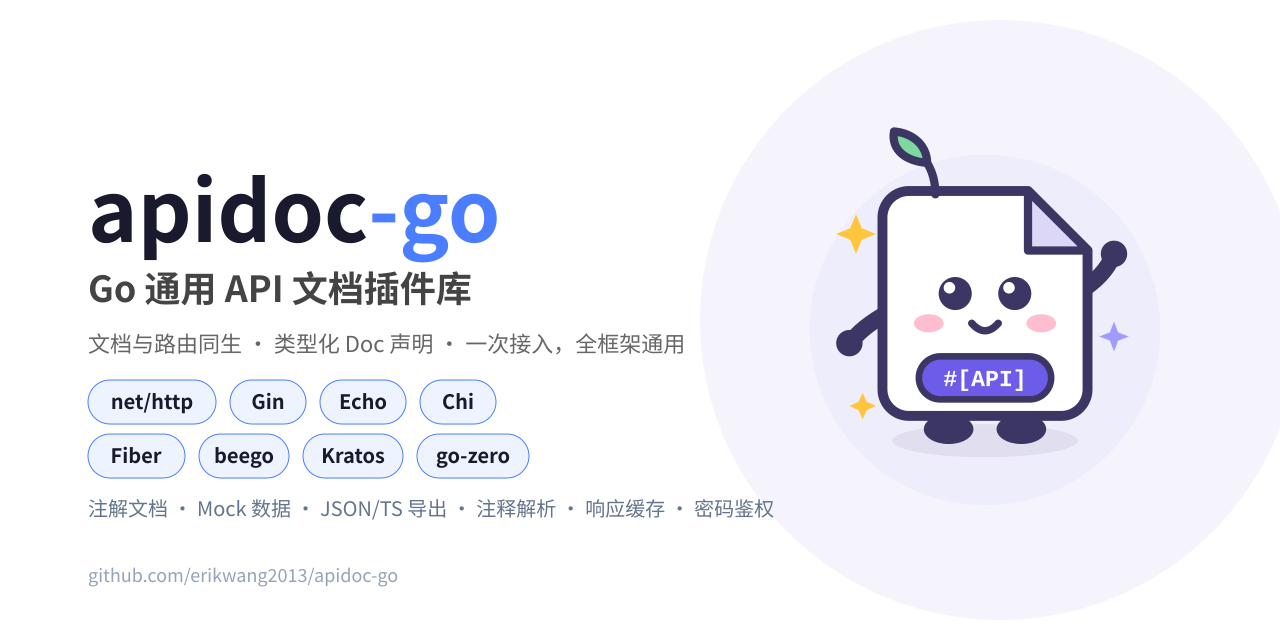
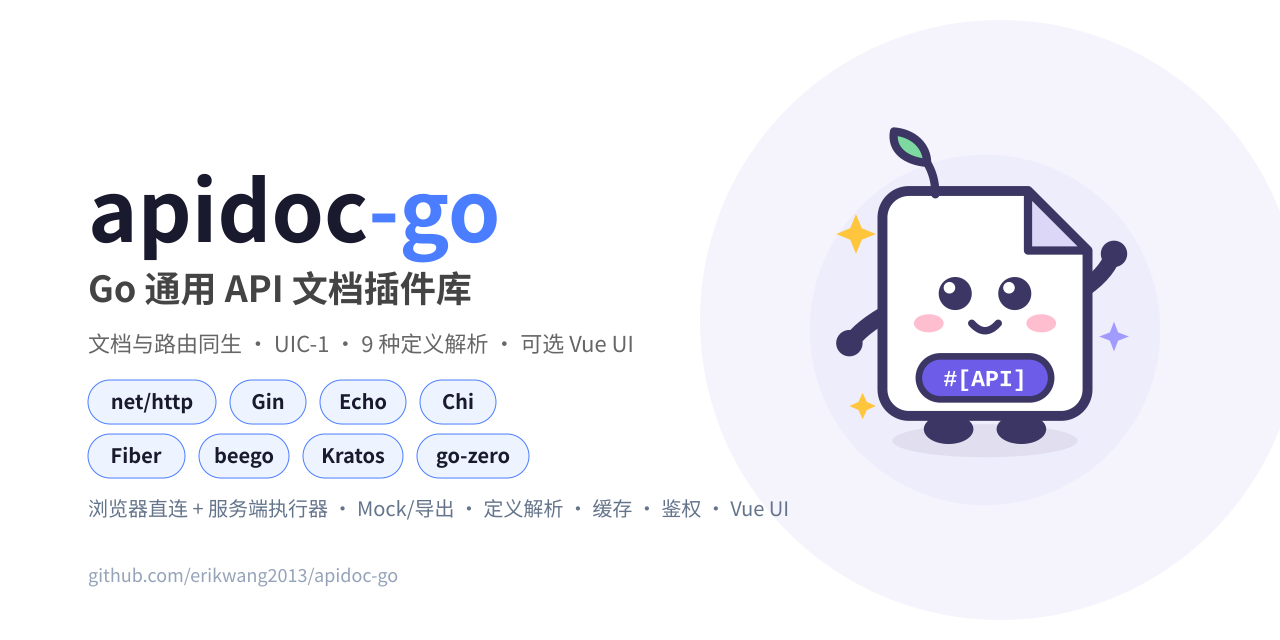
docs: release v1.1.0 with UIC-1, executors and definitions
- Add VERSION=1.1.0; release workflow reads it and only creates
  v$VERSION when absent instead of patch-bumping.
- README: document UIC-1 API, build-tag protocol executors, nine-format
  definition parsing, optional UIPath Vue UI, capabilities and security.
- CHANGELOG: add the 1.1.0 entry.
- Refresh architecture/features/lifecycle/social SVGs and regenerate
  docs/social-preview.png at 1280x640.

Changed region(s): [[0.2188, 0.5, 0.5312, 0.5625], [0.0625, 0.7812, 0.625, 0.8125]]

diff --git a/README.md b/README.md
@@ -2,31 +2,35 @@
 
 # apidoc-go — Go 通用 API 文档插件
 
+[![Release](https://img.shields.io/github/v/release/erikwang2013/apidoc-go)](https://github.com/erikwang2013/apidoc-go/releases)
+
 [English](docs/i18n/en/README.md) · [한국어](docs/i18n/ko/README.md) · [Русский](docs/i18n/ru/README.md) · [Deutsch](docs/i18n/de/README.md) · [Français](docs/i18n/fr/README.md) · [Español](docs/i18n/es/README.md) · [Português](docs/i18n/pt/README.md) · [हिन्दी](docs/i18n/hi/README.md) · [العربية](docs/i18n/ar/README.md) · [বাংলা](docs/i18n/bn/README.md) · [Bahasa Indonesia](docs/i18n/id/README.md) · [日本語](docs/i18n/ja/README.md)
 
 ## 项目介绍
 
-**当前版本：以 [Releases](https://github.com/erikwang2013/apidoc-go/releases) 为准**
+**当前版本：v1.1.0**（以 [Releases](https://github.com/erikwang2013/apidoc-go/releases) 为准）
 
-**apidoc-go** 是一个通用 Go API 文档插件库：接口文档以**类型化结构体**随路由注册时一同声明，文档与路由同生；以 JSON API 暴露文档，供外部 UI 渲染与发起测试请求，并内置密码鉴权、多应用/多版本管理、Mock 数据与 JSON / TypeScript 导出能力、注释解析、接口缓存与参数自动补全。一次接入，全框架通用，无需改造现有项目。
+**apidoc-go** 是一个通用 Go API 文档插件库：接口文档以**类型化结构体**随路由注册时一同声明，文档与路由同生；同时提供旧版 `/api/*` 与 UIC-1 `/ui/v1/*` 两套 JSON API，可用任意外部 UI 渲染调试，也可通过 `Config.UIPath` 在同一进程提供打包后的 Vue UI。库内置密码鉴权、多应用/多版本管理、Mock 数据、JSON / TypeScript 导出、注释与九种协议定义解析、接口缓存与参数自动补全；服务端协议执行器按构建标签按需编译，覆盖 HTTP、RPC、套接字、消息、IoT、工业与媒体协议族。一次接入，全框架通用，无需改造现有项目。
 
 ## 项目功能
 
 | # | 功能 | 说明 |
 |---|------|------|
 | 1 | 文档自动生成 | 类型化 Doc 声明，随路由注册，一处声明，文档与路由同生 |
-| 2 | 文档 API | `/api/menus`、`/api/protocols`、`/api/detail`、`/api/export`，供外部 UI 渲染文档与发起测试请求 |
+| 2 | 文档 API | 旧版 `/api/*`（menus / protocols / detail / export）与 UIC-1 `/ui/v1/*`（文档、调试、分享、生成器、导出），供外部 UI 或内置 Vue UI 使用 |
 | 3 | Mock 数据 | 字段级 Mock 示例，接口联调快人一步 |
 | 4 | 多应用 / 多版本 | App / Version 树形管理，一套插件覆盖全项目文档 |
 | 5 | 密码鉴权 | 全局密码 + 应用级密码，HMAC Token · 恒时比较 |
 | 6 | Markdown 文档 | goldmark 安全渲染，原生 HTML 自动剥离 |
 | 7 | 多框架适配 | net/http · Gin · Echo · Chi · Fiber · beego · Kratos · go-zero，一次接入全框架通用 |
 | 8 | JSON / TypeScript 导出 | 接口类型一键导出，前后端联调更顺畅 |
-| 9 | 安全防护 | 密码鉴权 · CORS 白名单限定 · 防 XSS · 防路径穿越 |
-| 10 | 注释自动解析 | go/ast 从注释自动生成文档，`@apidoc` 标记即注册 |
+| 9 | 安全防护 | 密码鉴权 · CORS 白名单 · 防 XSS / 路径穿越 · 服务端调试 SSRF 守卫 · 会话与字节限额 |
+| 10 | 注解与定义解析 | go/ast 解析 `@apidoc` / `@protocol` / `@definition`；内置 OpenAPI、AsyncAPI、GraphQL、proto、WSDL、EDMX、JSON Schema、JSON-RPC、XML-RPC 九种定义格式 |
 | 11 | 接口缓存 | 版本化响应缓存 + ETag/304，文档接口毫秒级返回 |
 | 12 | 参数自动补全 | reflect 从 handler 签名自动推断请求参数 |
-| 13 | 任意协议注解 | `@protocol` 标注协议；detail 返回 protocol/method/url/params/responses/mock，外部 UI 负责面板与测试请求 |
+| 13 | 任意协议注解 | `@protocol` 标注协议；detail 返回 protocol/method/url/params/responses/mock 与解析后的协议定义 |
+| 14 | 内置 Vue UI（可选） | `Config.UIPath` 指向 UIC-1 打包产物即可同进程提供 Vue UI；留空时回退纯 JSON API |
+| 15 | 服务端协议执行器 | 7 大协议族按构建标签编译；默认关闭、未编译即 fail closed，`apidoc_debug_all` 一键全开 |
 
 ## 架构总览
 
@@ -41,17 +45,27 @@
 ```
 apidoc-go/
 ├── apidoc.go            # 核心入口：New / Register / Mount / Handler
+├── VERSION              # 项目版本（v1.1.0），发布工作流据此建 tag
 ├── doc.go               # Route / Doc / Param / Response 类型
 ├── model/               # 数据模型
 │   ├── model.go         #   Project / App / Version / Controller / Action
+│   ├── definition.go    #   @definition 外部协议定义
 │   ├── protocol.go      #   URL scheme → protocol
 │   └── protocols.go     #   协议注册表 / 别名 / 默认端口
 ├── store/               # 存储与去重
 │   └── store.go         #   (app, version, method, url) 去重，后者覆盖
 ├── auth/                # 鉴权
 │   └── auth.go          #   密码校验 · HMAC Token 签发与验证
-├── server/              # JSON API
-│   └── server.go
+├── server/              # HTTP API
+│   ├── server.go        #   旧版 /api 路由 · 鉴权 / CORS / 缓存
+│   ├── ui.go            #   UIPath 静态 Vue UI（SPA 兜底 · 路径限定）
+│   └── uiapi/           #   UIC-1 /ui/v1 API
+│       ├── uiapi.go     #     capabilities / config / menus / detail
+│       ├── read.go      #     文档读取 · 定义解析
+│       ├── debug.go     #     debugSend / debugStart / debugPoll / debugStop
+│       ├── manage.go    #     生成器 · 代码模板 · 分享 · 缓存
+│       ├── share.go
+│       └── debug/       #     服务端协议执行器（构建标签按协议族编译）
 ├── adapter/             # 框架适配层（类型化接口）
 │   ├── adapter.go
 │   ├── nethttp.go       #   net/http  ServeMux
@@ -60,7 +74,8 @@ apidoc-go/
 │   ├── chi.go           #   http.HandlerFunc
 │   └── fiber.go         #   fiber.Handler
 ├── parse/               # 注释自动解析
-│   └── parse.go         #   go/ast · @apidoc 注释标记
+│   ├── parse.go         #   go/ast · @apidoc / @protocol / @definition
+│   └── protocol/        #   九种协议定义解析
 ├── export/              # 导出
 │   └── export.go        #   TypeScript 接口定义
 ├── mock/                # Mock 数据
@@ -120,9 +135,29 @@ func main() {
 
 	s.Mount(adapter.NewNetHTTP(mux))
 	http.ListenAndServe(":8080", mux)
-	// 外部 UI 读取 http://localhost:8080/apidoc/api/menus 等文档 API
+	// 外部 UI 读取 /apidoc/api/menus 或 UIC-1 /apidoc/ui/v1/*；
+	// 配置 UIPath 后也可直接打开 http://localhost:8080/apidoc/
 }
 ```
+
+### 启用 UIC-1 内置 Vue UI 与服务端执行器
+
+```go
+s := apidoc.New(apidoc.Config{
+	Prefix: "/apidoc",
+	// 可选：apidoc-ui 的 npm run package:ui 产物（index.html / config.js / assets/）。
+	// 留空则只提供 JSON API，继续使用外部 UI。
+	UIPath: "/srv/myapp/dist/uic1-ui",
+	// 服务端代发默认关闭；开启后仍受 SSRF 白名单与限额约束。
+	Debug: apidoc.DebugConfig{EnableServerSide: true},
+})
+```
+
+执行器在构建期按协议族选择：`go build -tags apidoc_debug_all` 编译全部，
+或用 `apidoc_debug_http`、`apidoc_debug_sockets`、`apidoc_debug_rpc`、
+`apidoc_debug_grpc`、`apidoc_debug_http3`、`apidoc_debug_messaging`、
+`apidoc_debug_iot`、`apidoc_debug_industrial`、`apidoc_debug_media` 按需裁剪；
+未编译的协议调用一律 fail closed。
 
 ### 任意协议注解
 
@@ -148,9 +183,35 @@ IEC 60870-5-104、BACnet/IP、RTP、RTCP、TCP、UDP、Raw Socket、Unix Domain
 Socket）；完整 key、别名、scheme 与默认端口见 `GET /api/protocols`。二进制 body
 用 `@param ... type=binary`（或 `hex`/`base64`）+ `in=payload` 声明。
 
-协议本身不进入库：`/api/detail` 返回 `protocol`、`protocol_info`、`method`、`url`、
-`params`、`responses` 与 `mock`，由外部 UI 渲染调试面板并自行发起测试请求。库不
-启动任何协议服务，也不提供 `/api/debug/*` 执行端点。
+`/api/detail` 与 UIC-1 `/ui/v1/docDetail` 返回 `protocol`、`protocol_info`、`method`、
+`url`、`params`、`responses`、`mock` 及解析后的 `definitions`。调试有两种通道：
+浏览器直连（HTTP / WebSocket / SSE，始终可用）与服务端代发（`Debug` 开启 + 对应
+构建标签）。服务端协议族包括 HTTP（http / http2 / http3 / SOAP / GraphQL / JSON-RPC /
+XML-RPC / OData / MCP / A2A / Webhook）、RPC（gRPC / Thrift / Dubbo / Hessian /
+ISO 8583）、套接字（TCP / UDP / Raw / Unix）、消息（MQTT / STOMP / AMQP / Kafka /
+XMPP）、IoT（CoAP / LwM2M）、工业（Modbus / DNP3 / IEC 104 / BACnet / OPC UA）与
+媒体（RTSP / SIP / RTP / RTCP / RTMP）。默认构建不编译执行器；开启后目标先过 SSRF
+守卫（`AllowHosts` 白名单、默认拒绝私网/回环/链路本地/云元数据地址、DNS 解析后逐
+IP 校验并钉住连接），并受超时、单消息 1 MiB、响应 `MaxBytes` 与流会话上限约束。
+
+### 协议定义解析（@definition）
+
+用 `@definition` 引入外部协议定义（格式自动探测，也可用 `format=` 指定），解析结果
+随 detail 返回，供 UIC 渲染报文结构并生成调试表单：
+
+```go
+// @apidoc
+// @protocol http
+// @method POST
+// @url /api/v1/users
+// @definition file=specs/openapi.yaml operation=createUser
+// @definition file=specs/service.proto message=User
+```
+
+支持 OpenAPI、AsyncAPI、GraphQL SDL、proto、WSDL、EDMX (OData)、JSON Schema、
+JSON-RPC 与 XML-RPC 九种格式。`Config.DefinitionRoot` 限定可读文件根目录（默认进程
+工作目录），解析受单文件 1 MiB、5 万行与嵌套引用深度 32 的限制；`operation=`、
+`message=`、`direction=`、`sample=`、`inline=` 等选项见 `parse` 包注释。
 
 ### 快速开始（Gin）
 
@@ -182,12 +243,21 @@ Echo / Chi / Fiber 仅需替换适配器构造器：`adapter.NewEcho(e)`、`adap
 | `Auth` | — | 鉴权配置：`Enable` / `Password` / `Secret` / `Expire` / `Secure` |
 | `Apps` | — | 应用配置：`Key` / `Title` / `Password`（应用级独立密码） |
 | `DebugOrigins` | — | 允许跨域读取文档 API 的来源（外部 UI，默认无） |
+| `PublicHost` | — | 外部 UI 调试使用的绝对基地址；空则同源 |
+| `ShareDir` | 临时目录下 `apidoc-go-shares` | UIC-1 分享记录目录 |
+| `DefinitionRoot` | 进程工作目录 | `@definition` 文件根目录；越界路径与符号链接拒绝 |
+| `Generator` / `CodeTemplates` | — | 声明式生成器与代码模板（渲染无副作用） |
+| `ShareActions` | — | 分享动作声明，由 UI 解释执行 |
+| `Debug` | 零值关闭 | 服务端执行器：`EnableServerSide` / `AllowPrivateNetworks` / `AllowHosts` / `AllowUnixSockets` / `TimeoutMS` / `MaxBytes` |
 | `UIPath` | —（不内置 UI） | UIC-1 Vue 打包产物目录；非空时在 `{Prefix}/` 下同进程提供静态 UI |
 
-### 内置静态 UI（UIC-1 Vue）
+### UIC-1 API 与内置 Vue UI（可选）
 
-库默认只提供 JSON 文档 API，由外部 UI 消费。把 `apidoc-ui` 的打包产物交给
-`Config.UIPath` 后，同一进程会在 `{Prefix}/` 下直接提供 Vue UI：
+库默认提供两套 JSON 文档 API：旧版 `/api/*` 与 UIC-1 `/ui/v1/*`，由外部 UI 消费。
+`GET {Prefix}/ui/v1/capabilities` 返回 contract、后端版本与功能矩阵（浏览器/服务端
+调试模式、分享、缓存、生成器、导出、鉴权），UI 据此决定可用面板；`/ui/v1/config`
+返回菜单与生成器、代码模板配置。把 `apidoc-ui` 的打包产物交给 `Config.UIPath` 后，
+同一进程还会在 `{Prefix}/` 下直接提供 Vue UI：
 
 ```go
 s := apidoc.New(apidoc.Config{
@@ -213,6 +283,31 @@ s := apidoc.New(apidoc.Config{
 - 文件访问被限制在 `UIPath` 内（拒绝 `..` 与越界符号链接），不做目录列表；目录或 `index.html` 缺失时 UI 路由返回 500，文档 API 不受影响；
 - go-zero 适配器只注册固定的 API 路由、不转发前缀下的任意路径，因此该适配器下内置 UI 不可用（其余适配器均支持）；
 - 仍使用外部 UI 的部署无需改动；只要 `config.js` 的 `HTTP.API_PREFIX` 与服务端 `Prefix` 一致即可。
+
+### 服务端协议执行器（构建标签）
+
+服务端代发默认不编译任何执行器，调用未编译的协议会返回 fail closed 错误。按协议族
+选择构建标签，`apidoc_debug_all` 聚合全部：
+
+| 构建标签 | 协议族 | 协议 |
+|----------|--------|------|
+| `apidoc_debug_http` | HTTP / Web | http、http2、soap、graphql、jsonrpc、xmlrpc、odata、mcp、a2a、webhook |
+| `apidoc_debug_http3` | HTTP/3 | http3（QUIC，仅 https） |
+| `apidoc_debug_sockets` | 套接字 | tcp、udp、raw、unix（一元 + 流） |
+| `apidoc_debug_rpc` | RPC / 金融 | thrift、dubbo、hessian、iso8583 |
+| `apidoc_debug_grpc` | gRPC | grpc（一元；descriptor 或 server reflection） |
+| `apidoc_debug_messaging` | 消息 | mqtt、stomp、amqp、kafka、xmpp（一元 + 流；也可用 `apidoc_debug_mqtt` / `_stomp` / `_amqp` / `_kafka` / `_xmpp` 单独裁剪） |
+| `apidoc_debug_iot` | IoT | coap、lwm2m |
+| `apidoc_debug_industrial` | 工业 | modbus、dnp3、iec104、bacnet、opcua |
+| `apidoc_debug_media` | 媒体 | rtsp、sip、rtp、rtcp、rtmp |
+| `apidoc_debug_all` | 全部 | 以上所有协议族 |
+
+安全边界：`Debug.EnableServerSide` 默认关闭；开启后仍要求目标通过 `AllowHosts`
+白名单（`*.example.com` 后缀匹配）、默认拒绝私网/回环/链路本地/CGNAT 与云元数据
+地址（`AllowPrivateNetworks` 才放行）、DNS 解析后逐 IP 校验并钉住连接，禁止
+`CONNECT`、重定向与代理；请求/响应受 `TimeoutMS`、`MaxBytes`（默认 1 MiB）、流
+会话数（每作用域 4 个）、帧数与空闲超时约束。定义解析只读 `DefinitionRoot` 内的
+普通文件，并限制文件大小、行数与引用深度。
 
 ### 框架适配器
 
@@ -270,7 +365,7 @@ for _, r := range results {
 
 ### 示例项目
 
-`example/` 内置 8 个框架服务器（net/http :8081、Gin :8082、Echo :8083、Chi :8084、Fiber :8085、beego :8086、Kratos :8087、go-zero :8088），`go run ./example` 一键启动；文档 API 位于各端口的 `/apidoc/api/...`，由外部 UI 消费。
+`example/` 内置 8 个框架服务器（net/http :8081、Gin :8082、Echo :8083、Chi :8084、Fiber :8085、beego :8086、Kratos :8087、go-zero :8088），`go run ./example` 一键启动；旧版文档 API 位于各端口的 `/apidoc/api/...`，UIC-1 API 位于 `/apidoc/ui/v1/...`，可配合外部 UI 或 `UIPath` 内置 Vue UI 使用。
 
 ## 多语言文档
 

diff --git a/CHANGELOG.md b/CHANGELOG.md
@@ -5,6 +5,55 @@
 
 ## [Unreleased]
 
+## [v1.1.0] - 2026-10-26
+
+### Added
+
+- **UIC-1 HTTP API**：`/ui/v1/capabilities`、`/config`、`/menus`、`/detail`、
+  `/docMenus`、`/docDetail`、`/verifyAuth`、`/debugSend`、`/debugStart`、`/debugPoll`、
+  `/debugStop`、分享（`addApiShare` / `getApiShareList` / `getApiShareDetail` /
+  `deleteApiShare` / `handleApiShareAction`）、缓存管理、声明式生成器、代码模板与
+  `exportAllData`；`capabilities` 按实际编译结果上报调试模式、分享、缓存、生成器、
+  导出与鉴权能力。
+- **服务端协议执行器（构建标签）**：HTTP/Web（http、http2、soap、graphql、jsonrpc、
+  xmlrpc、odata、mcp、a2a、webhook）、HTTP/3、套接字（tcp、udp、raw、unix）、
+  RPC/金融（grpc、thrift、dubbo、hessian、iso8583）、消息（mqtt、stomp、amqp、
+  kafka、xmpp）、IoT（coap、lwm2m）、工业（modbus、dnp3、iec104、bacnet、opcua）
+  与媒体（rtsp、sip、rtp、rtcp、rtmp）；支持一元与流式会话。默认构建不编译执行器，
+  `apidoc_debug_all` 聚合全部，也可用 `apidoc_debug_http` / `_http3` / `_sockets` /
+  `_rpc` / `_grpc` / `_messaging` / `_iot` / `_industrial` / `_media` 等标签按协议族
+  裁剪，未编译的协议 fail closed。
+- **九种协议定义解析**：`@definition` 注解支持 OpenAPI、AsyncAPI、GraphQL SDL、
+  proto、WSDL、EDMX、JSON Schema、JSON-RPC 与 XML-RPC；自动探测格式、解析
+  import / `$ref`、校验样例，结果随 UIC detail 返回；`Config.DefinitionRoot`
+  限定可读文件根目录。
+- **UIPath Vue UI**：`Config.UIPath` 指向 `apidoc-ui` 的 `dist/uic1-ui/` 打包产物，
+  同一进程提供 UIC-1 Vue UI（SPA 兜底、静态资源 MIME、无尾斜杠 307、路径与符号
+  链接限定）；留空保持纯 JSON API。
+- 声明式生成器 `Generator`、代码模板 `CodeTemplates`、分享动作 `ShareActions`
+  配置，以及 `PublicHost` / `AppConfig.PublicHost` 调试基地址。
+
+### Changed
+
+- `@protocol` 注解与 `/api/detail` 的 `protocol_info` 继续作为协议文档元数据；
+  UIC-1 detail 额外返回解析后的 `definitions`、`validation`、调试模式与能力信息。
+- 响应缓存覆盖旧版 `/api` 与 UIC-1；`/ui/v1/cache/clear`、`/ui/v1/cache/warm`
+  可管理进程内缓存。
+- README、架构/功能/生命周期/社交预览图与项目结构更新到 1.1.0；发布工作流改为
+  读取根目录 `VERSION`，仅在 `v$VERSION` 不存在时创建 tag 与 GitHub Release。
+
+### Security
+
+- 服务端执行器默认关闭，目标先过 SSRF 守卫：`AllowHosts` 白名单、默认拒绝私网/
+  回环/链路本地/CGNAT 与云元数据地址、DNS 解析后逐 IP 校验并钉住连接，禁止
+  CONNECT、重定向与代理。
+- 调试请求与响应限额：单消息 1 MiB、`MaxBytes`、超时、每作用域 4 个流会话、
+  1000 帧、100 条/轮轮询与 60s 空闲回收；DNP3 单响应 10,000 点、IEC 104
+  10,000 行上限。
+- `@definition` 解析限制：单文件 1 MiB、5 万行、引用深度 32；仅读取
+  `DefinitionRoot` 内普通文件，拒绝绝对路径、`..` 与越界符号链接。
+- 鉴权能力如实上报：全局密码为空时不广告全局鉴权，应用鉴权按已配置密码上报。
+
 ## [v1.0.15] - 2026-10-25
 
 ### Changed
